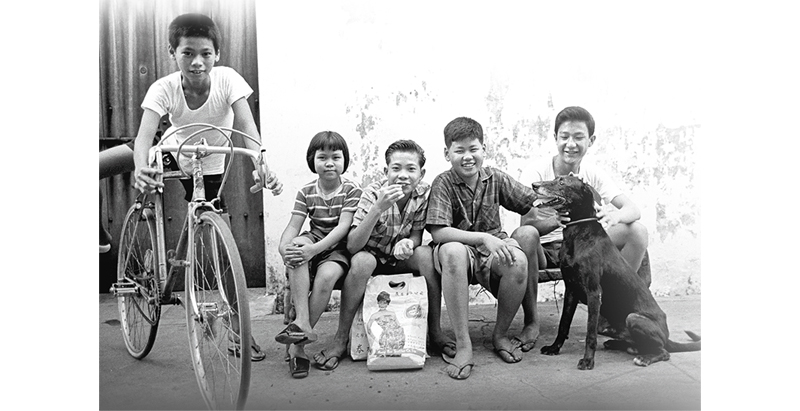
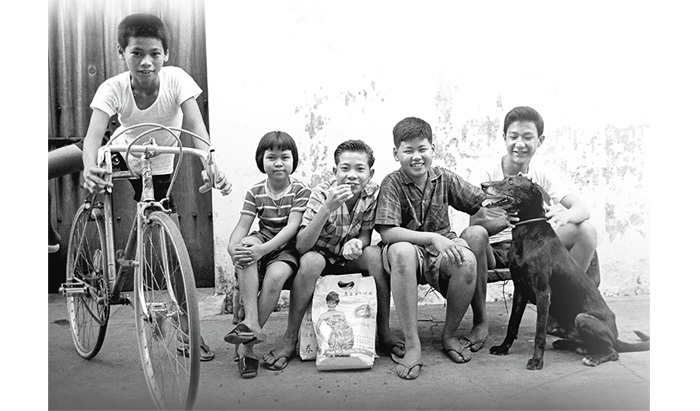
friends

diff --git a/articles-archive/features/_posts/vol-16-iss-4-jan-mar-2021/2021-01-04-young-ones.md b/articles-archive/features/_posts/vol-16-iss-4-jan-mar-2021/2021-01-04-young-ones.md
@@ -23,7 +23,7 @@ table {
 
 <div style="background-color: white;">
 <br/>
-<img src="/images/Vol-16-issue-4/youngones/Children at play_800px.jpg">
+<img src="/images/Vol-16-issue-4/youngones/TheYoungOnes.jpg">
 Children at play, 1962. <i>Captek</i>, <i>kuti-kuti</i>, five stones, hopscotch, <i>gasing</i> and even <i>tikam-tikam</i> – games played by children of every race. © <i>Urban Redevelopment Authority. All rights reserved</i>.
 </div>
 
